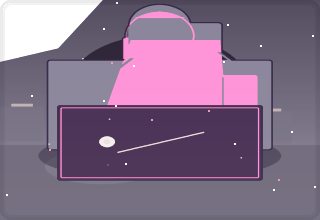
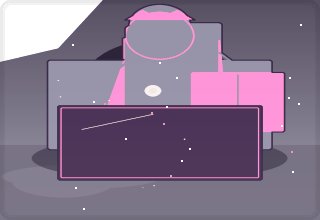
save

diff --git a/game/art/silhouette_builder.py b/game/art/silhouette_builder.py
@@ -4,6 +4,10 @@ import random
 import pygame
 
 
+def _ref_stem(value: str) -> str:
+    return str(value or '').strip().lower().replace('.png', '').replace('.jpg', '').replace('.jpeg', '')
+
+
 def _outline_mask(surface: pygame.Surface, color, passes: int = 1):
     mask = pygame.mask.from_surface(surface)
     if mask.count() <= 0:
@@ -144,7 +148,7 @@ def _draw_archon_throne(surface: pygame.Surface, rect: pygame.Rect, color, accen
     pygame.draw.rect(surface, accent, (rect.centerx - rect.w // 7, rect.centery + rect.h // 8, rect.w // 3, rect.h // 10), border_radius=5)
 
 
-def _draw_warrior_foreground(surface: pygame.Surface, rect: pygame.Rect, color, accent):
+def _draw_warrior_foreground(surface: pygame.Surface, rect: pygame.Rect, color, accent, variant: str = ''):
     body = pygame.Rect(rect.centerx - rect.w // 7, rect.y + rect.h // 8, rect.w // 3, rect.h * 11 // 18)
     pygame.draw.rect(surface, color, body, border_radius=10)
     pygame.draw.circle(surface, color, (rect.centerx, rect.y + rect.h // 7), rect.w // 9)
@@ -163,6 +167,16 @@ def _draw_warrior_foreground(surface: pygame.Surface, rect: pygame.Rect, color, 
     _blocky_line(surface, color, (rect.centerx + rect.w // 16, body.bottom), (rect.centerx + rect.w // 10, rect.bottom - rect.h // 14), 10)
     blade_start = (rect.centerx - rect.w // 5, rect.bottom - rect.h // 5)
     blade_end = (rect.centerx + rect.w // 3, rect.y + rect.h // 5)
+    if variant == 'guardian_03':
+        body = pygame.Rect(rect.centerx - rect.w // 6, rect.y + rect.h // 7, rect.w // 3, rect.h * 5 // 8)
+        pygame.draw.rect(surface, color, body, border_radius=12)
+        helm = [(rect.centerx - rect.w // 10, rect.y + rect.h // 8), (rect.centerx, rect.y + rect.h // 16), (rect.centerx + rect.w // 10, rect.y + rect.h // 8)]
+        pygame.draw.polygon(surface, accent, helm)
+        blade_start = (rect.centerx - rect.w // 4, rect.bottom - rect.h // 6)
+        blade_end = (rect.centerx + rect.w // 3, rect.y + rect.h // 4)
+    elif variant == 'guardian_02':
+        blade_start = (rect.centerx - rect.w // 6, rect.bottom - rect.h // 4)
+        blade_end = (rect.centerx + rect.w // 4, rect.y + rect.h // 4)
     _blocky_line(surface, accent, blade_start, blade_end, 20)
     _blocky_line(surface, color, (blade_start[0] + 10, blade_start[1] - 10), (blade_end[0] - 8, blade_end[1] + 8), 4)
     pygame.draw.polygon(surface, accent, [
@@ -172,8 +186,8 @@ def _draw_warrior_foreground(surface: pygame.Surface, rect: pygame.Rect, color, 
     ])
 
 
-def _draw_hyperborean_foreground(surface: pygame.Surface, rect: pygame.Rect, color, accent):
-    _draw_warrior_foreground(surface, rect, color, accent)
+def _draw_hyperborean_foreground(surface: pygame.Surface, rect: pygame.Rect, color, accent, variant: str = ''):
+    _draw_warrior_foreground(surface, rect, color, accent, variant=variant or 'guardian_02')
     pygame.draw.rect(surface, accent, (rect.centerx - rect.w // 5, rect.y + rect.h // 5, rect.w * 2 // 5, rect.h // 10), border_radius=4)
     pygame.draw.rect(surface, accent, (rect.centerx - rect.w // 14, rect.y + rect.h // 9, rect.w // 7, rect.h // 11), border_radius=4)
     haft_start = (rect.centerx + rect.w // 18, rect.bottom - rect.h // 5)
@@ -191,7 +205,7 @@ def _draw_hyperborean_foreground(surface: pygame.Surface, rect: pygame.Rect, col
     ])
 
 
-def _draw_archon_foreground(surface: pygame.Surface, rect: pygame.Rect, color, accent):
+def _draw_archon_foreground(surface: pygame.Surface, rect: pygame.Rect, color, accent, variant: str = ''):
     throne = pygame.Rect(rect.x + rect.w // 10, rect.y + rect.h // 3, rect.w * 4 // 5, rect.h // 2)
     pygame.draw.rect(surface, color, throne, border_radius=8)
     pygame.draw.rect(surface, accent, (throne.x + throne.w // 3, throne.y - rect.h // 8, throne.w // 3, rect.h // 8), border_radius=4)
@@ -213,13 +227,28 @@ def _draw_archon_foreground(surface: pygame.Surface, rect: pygame.Rect, color, a
     _blocky_line(surface, color, (body.left + 8, body.y + rect.h // 5), (rect.centerx - rect.w // 4, rect.centery), 10)
     _blocky_line(surface, color, (body.right - 8, body.y + rect.h // 6), (rect.centerx + rect.w // 4, rect.y + rect.h // 3), 10)
     tablet = pygame.Rect(rect.centerx + rect.w // 10, rect.centery - rect.h // 12, rect.w // 4, rect.h // 3)
+    if variant == 'arconte_04':
+        body = pygame.Rect(rect.centerx - rect.w // 8, rect.y + rect.h // 7, rect.w // 3, rect.h * 11 // 18)
+        pygame.draw.rect(surface, color, body, border_radius=12)
+        crown = [(rect.centerx - rect.w // 8, rect.y + rect.h // 9), (rect.centerx - rect.w // 16, rect.y + rect.h // 18), (rect.centerx, rect.y + rect.h // 10), (rect.centerx + rect.w // 16, rect.y + rect.h // 18), (rect.centerx + rect.w // 8, rect.y + rect.h // 9)]
+        pygame.draw.polygon(surface, accent, crown)
+        tablet = pygame.Rect(rect.centerx + rect.w // 9, rect.centery - rect.h // 10, rect.w // 3, rect.h // 3)
     pygame.draw.rect(surface, accent, tablet, border_radius=6)
     pygame.draw.circle(surface, accent, (rect.centerx, rect.y + rect.h // 5), rect.w // 8, 4)
     pygame.draw.line(surface, color, (tablet.centerx, tablet.y + 8), (tablet.centerx, tablet.bottom - 8), 4)
 
+def _subject_variant(semantic: dict) -> str:
+    return _ref_stem(semantic.get('subject_ref', ''))
+
+
+def _object_variant(semantic: dict) -> str:
+    return _ref_stem(semantic.get('object_ref', ''))
+
+
 
 def draw_subject(surface: pygame.Surface, semantic: dict, refs: list, palette, rng: random.Random):
     kind = str(semantic.get('subject_kind', '') or '').lower().replace(' ', '_')
+    variant = _subject_variant(semantic)
     subject = ' '.join([
         str(semantic.get('subject', '') or ''),
         str(semantic.get('environment', '') or ''),
@@ -232,16 +261,16 @@ def draw_subject(surface: pygame.Surface, semantic: dict, refs: list, palette, r
     if kind == 'hyperborean_champion':
         _draw_hyperborean_champion(layer, rect, main, accent)
     elif kind == 'hyperborean_foreground':
-        _draw_hyperborean_foreground(layer, rect, main, accent)
+        _draw_hyperborean_foreground(layer, rect, main, accent, variant=variant)
     elif kind == 'archon_beast':
         _draw_beast(layer, rect, main, accent)
         pygame.draw.circle(layer, accent, (rect.centerx + rect.w // 6, rect.centery - rect.h // 10), 8)
     elif kind == 'archon_foreground':
-        _draw_archon_foreground(layer, rect, main, accent)
+        _draw_archon_foreground(layer, rect, main, accent, variant=variant)
     elif kind == 'guardian_bearer':
         _draw_guardian_bearer(layer, rect, main, accent)
     elif kind == 'warrior_foreground':
-        _draw_warrior_foreground(layer, rect, main, accent)
+        _draw_warrior_foreground(layer, rect, main, accent, variant=variant)
     elif any(k in subject for k in ('condor', 'bird', 'ave')):
         _draw_condor(layer, rect, main, accent)
     elif any(k in subject for k in ('tree', 'gaia', 'arbol')):
@@ -266,6 +295,7 @@ def draw_subject(surface: pygame.Surface, semantic: dict, refs: list, palette, r
 
 def draw_focus_object(surface: pygame.Surface, semantic: dict, palette, rng: random.Random):
     kind = str(semantic.get('object_kind', '') or '').lower().replace(' ', '_')
+    variant = _object_variant(semantic)
     obj = str(semantic.get('object', '') or '').lower()
     color = palette[1]
     glow = palette[3]
@@ -275,9 +305,12 @@ def draw_focus_object(surface: pygame.Surface, semantic: dict, palette, rng: ran
         _blocky_line(layer, color, (rect.left + 16, rect.bottom - 6), (rect.right - 10, rect.top + 6), 10)
         pygame.draw.line(layer, glow, (rect.centerx - 12, rect.centery + 14), (rect.centerx + 12, rect.centery + 14), 4)
         pygame.draw.line(layer, glow, (rect.right - 14, rect.top + 10), (rect.right - 14, rect.top - 10), 3)
-        if kind == 'solar_axe':
+        if kind == 'solar_axe' or variant == 'espada_03':
             pygame.draw.line(layer, glow, (rect.right - 14, rect.top + 10), (rect.right + 8, rect.top + 4), 4)
             pygame.draw.line(layer, glow, (rect.right - 14, rect.top + 10), (rect.right + 8, rect.top + 16), 4)
+        if kind == 'greatsword' or variant == 'espada_02':
+            pygame.draw.line(layer, glow, (rect.left + 26, rect.bottom - 18), (rect.right - 24, rect.top + 18), 4)
+            pygame.draw.circle(layer, glow, (rect.left + 34, rect.bottom - 24), 8, 3)
     elif kind == 'codex' or any(k in obj for k in ('codex', 'book', 'tablet')):
         pygame.draw.rect(layer, color, rect, border_radius=6)
         pygame.draw.rect(layer, glow, rect.inflate(-14, -14), 3, border_radius=4)
@@ -287,6 +320,9 @@ def draw_focus_object(surface: pygame.Surface, semantic: dict, palette, rng: ran
         pygame.draw.rect(layer, glow, tab, 3, border_radius=8)
         pygame.draw.circle(layer, glow, (tab.centerx, tab.y + tab.h // 4), max(8, tab.w // 8), 3)
         pygame.draw.line(layer, glow, (tab.centerx, tab.y + tab.h // 4 + 10), (tab.centerx, tab.bottom - 12), 3)
+        if variant == 'sellos_03':
+            pygame.draw.circle(layer, glow, tab.center, max(10, tab.w // 7), 3)
+            pygame.draw.line(layer, glow, (tab.centerx - tab.w // 5, tab.centery), (tab.centerx + tab.w // 5, tab.centery), 3)
     elif kind == 'shield' or any(k in obj for k in ('shield', 'ward')):
         pts = [(rect.centerx, rect.top), (rect.right, rect.top + rect.h // 3), (rect.right - rect.w // 6, rect.bottom), (rect.left + rect.w // 6, rect.bottom), (rect.left, rect.top + rect.h // 3)]
         pygame.draw.polygon(layer, color, pts)

diff --git a/game/art/scene_engine.py b/game/art/scene_engine.py
@@ -185,6 +185,7 @@ def _draw_background(surface: pygame.Surface, semantic: dict, palette, rng: rand
     w, h = surface.get_size()
     top, mid, low, acc = palette
     env = str(semantic.get('environment', '') or '').lower()
+    env_ref = str(semantic.get('environment_ref', '') or '').lower()
     for y in range(h):
         t = y / max(1, h - 1)
         if t < 0.58:
@@ -216,7 +217,7 @@ def _draw_background(surface: pygame.Surface, semantic: dict, palette, rng: rand
             pygame.draw.circle(surface, (mid[0], mid[1], mid[2]), (x + 4, horizon - th), rng.randint(16, 28))
     elif any(k in env for k in ('temple', 'sanctuary', 'ruins', 'city', 'architecture', 'throne', 'citadel', 'observatory')):
         far = pygame.Surface((w, h), pygame.SRCALPHA)
-        for _ in range(3):
+        for _ in range(2 if any(k in env_ref for k in ('observatorios','chakana_limpia','heraldos')) else 3):
             bw = rng.randint(w // 10, w // 6)
             bh = rng.randint(h // 7, h // 4)
             bx = rng.randint(0, max(0, w - bw - 1))
@@ -226,7 +227,7 @@ def _draw_background(surface: pygame.Surface, semantic: dict, palette, rng: rand
         surface.blit(far, (0, 0))
         mid_layer = pygame.Surface((w, h), pygame.SRCALPHA)
         keep = pygame.Rect(int(w * 0.12), int(h * 0.04), int(w * 0.76), int(h * 0.78))
-        for _ in range(2):
+        for _ in range(1 if any(k in env_ref for k in ('observatorios','chakana_limpia','heraldos')) else 2):
             bw = rng.randint(w // 8, w // 5)
             bh = rng.randint(h // 6, h // 3)
             bx = rng.randint(0, max(0, w - bw - 1))
@@ -248,7 +249,7 @@ def _draw_background(surface: pygame.Surface, semantic: dict, palette, rng: rand
 
     veil = pygame.Surface((w, h), pygame.SRCALPHA)
     pygame.draw.rect(veil, (0, 0, 0, 34), (0, 0, w, h))
-    pygame.draw.ellipse(veil, (255, 255, 255, 8), (int(w * 0.22), int(h * 0.16), int(w * 0.56), int(h * 0.46)))
+    pygame.draw.ellipse(veil, (255, 255, 255, 5), (int(w * 0.26), int(h * 0.18), int(w * 0.48), int(h * 0.40)))
     surface.blit(veil, (0, 0), special_flags=pygame.BLEND_RGBA_SUB)
 
 
@@ -321,7 +322,7 @@ def generate_scene_art(card_id: str, prompt: str, seed: int, out_path: Path) -> 
     work = pygame.Surface((768, 768), pygame.SRCALPHA, 32)
     _draw_background(work, semantic, palette, rng)
     shadow = pygame.Surface(work.get_size(), pygame.SRCALPHA)
-    pygame.draw.ellipse(shadow, (0, 0, 0, 110), (int(work.get_width() * 0.12), int(work.get_height() * 0.60), int(work.get_width() * 0.76), int(work.get_height() * 0.22)))
+    pygame.draw.ellipse(shadow, (0, 0, 0, 132), (int(work.get_width() * 0.10), int(work.get_height() * 0.62), int(work.get_width() * 0.80), int(work.get_height() * 0.20)))
     work.blit(shadow, (0, 0))
     fg_palette = _strong_foreground_palette(palette, semantic.get('subject_kind', ''), semantic.get('object_kind', ''))
     draw_subject(work, semantic, refs, fg_palette, rng)
